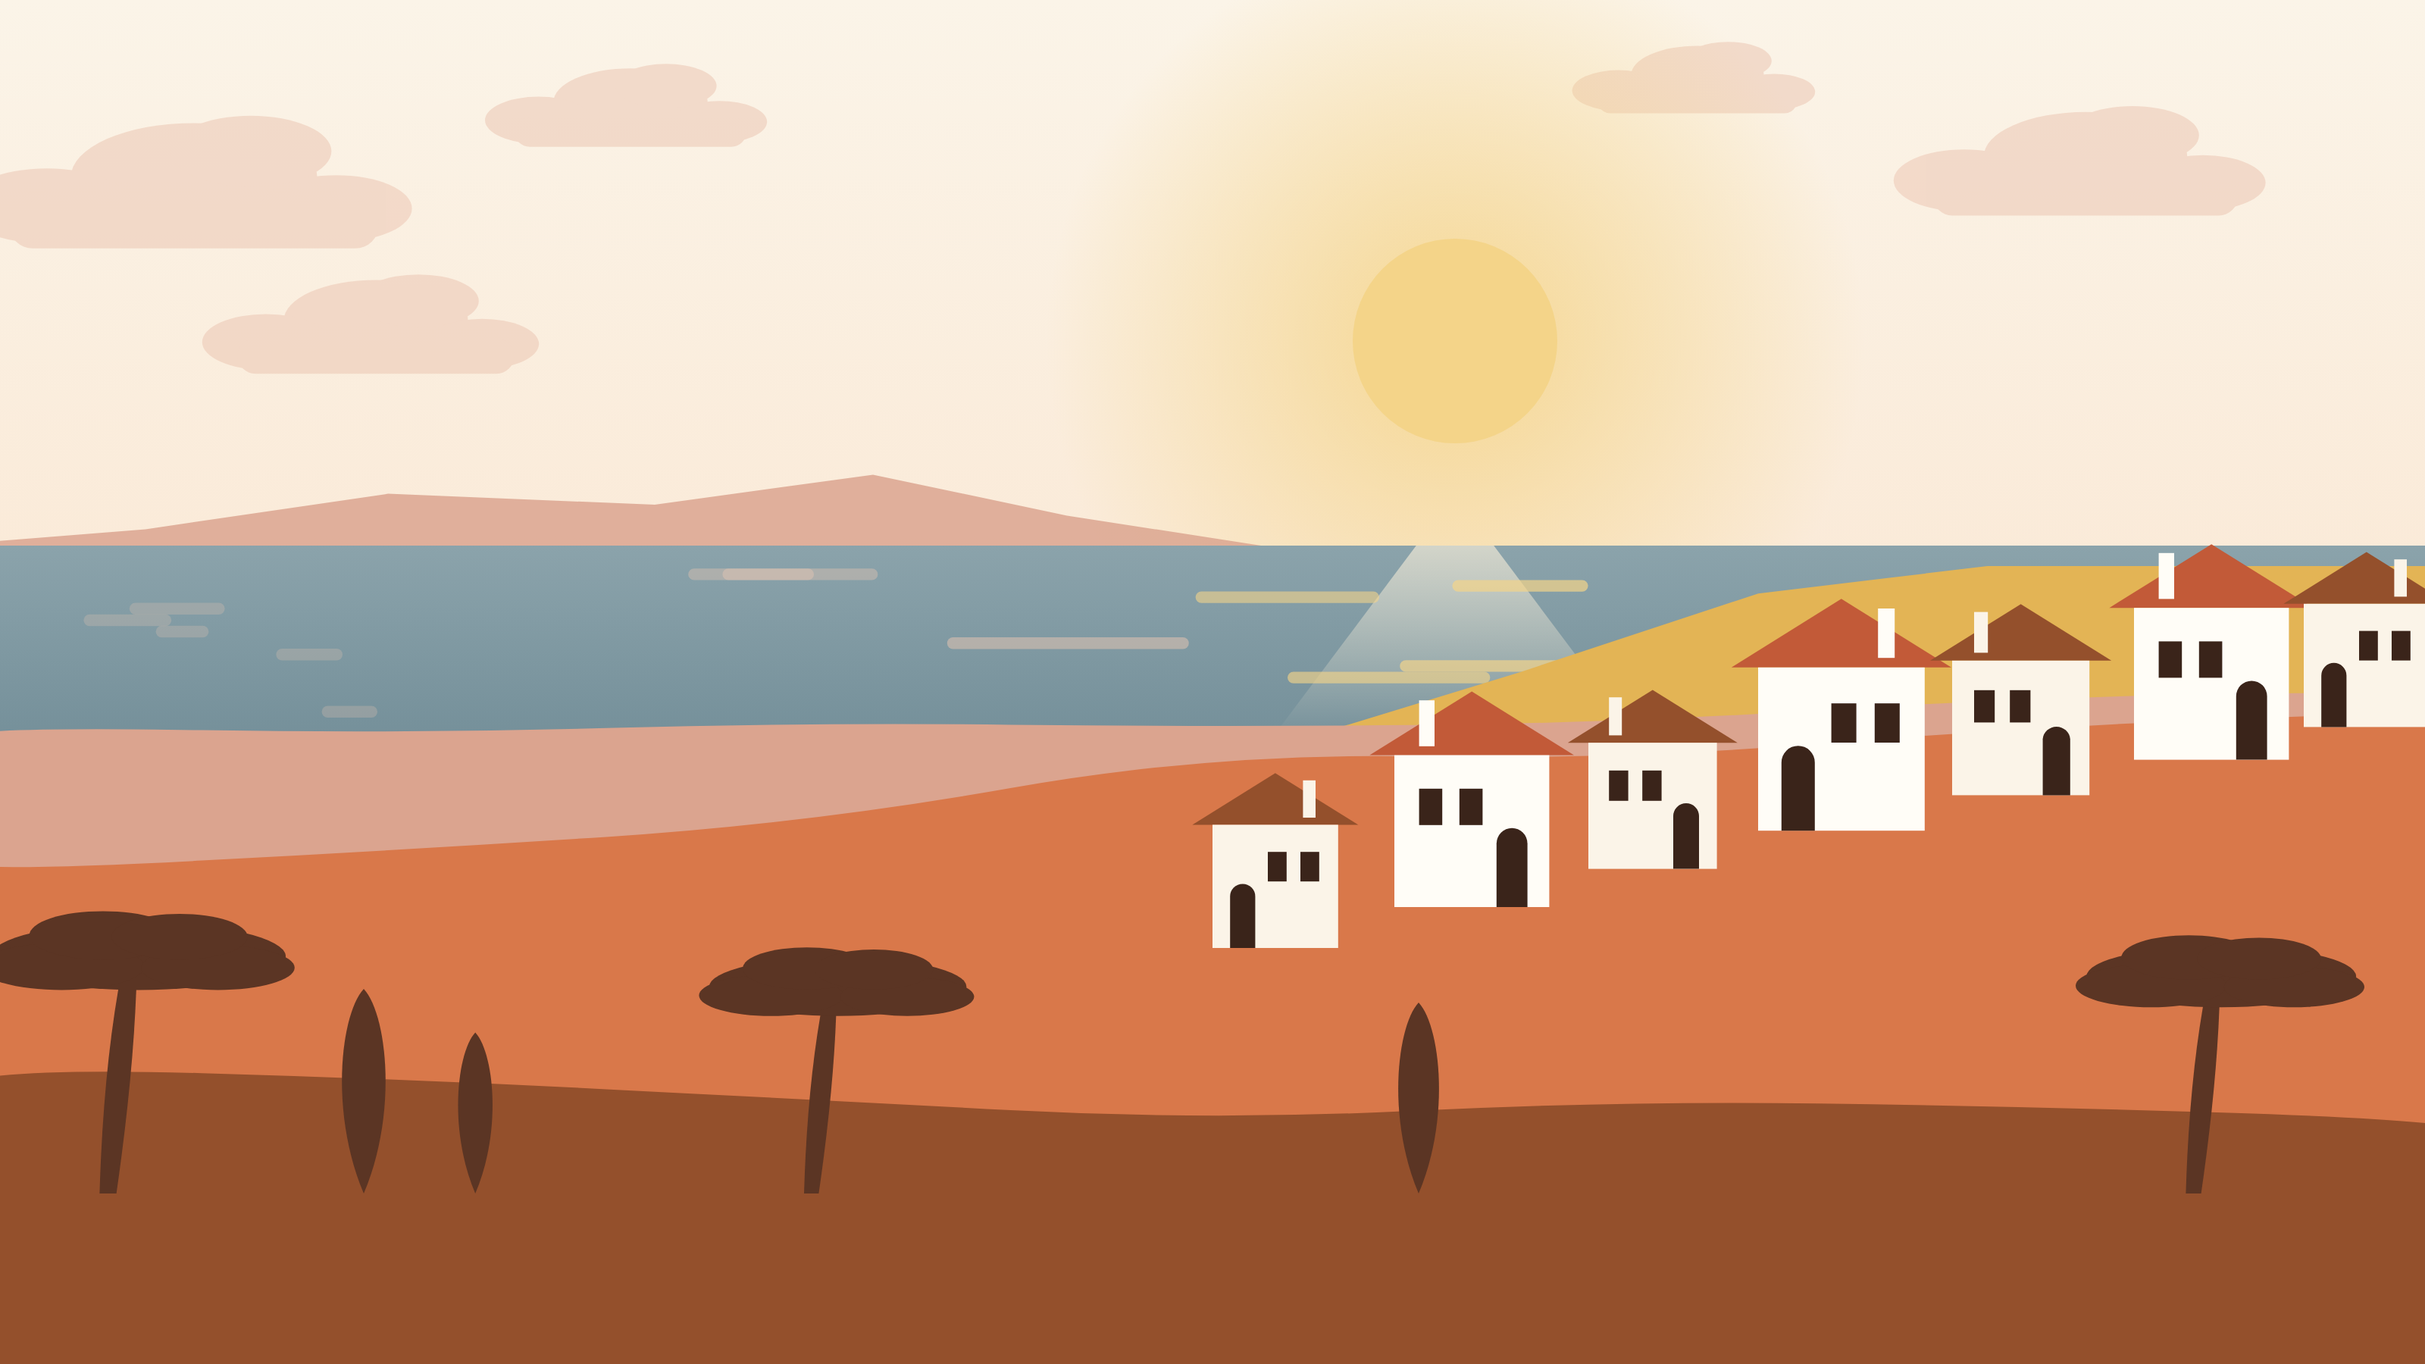
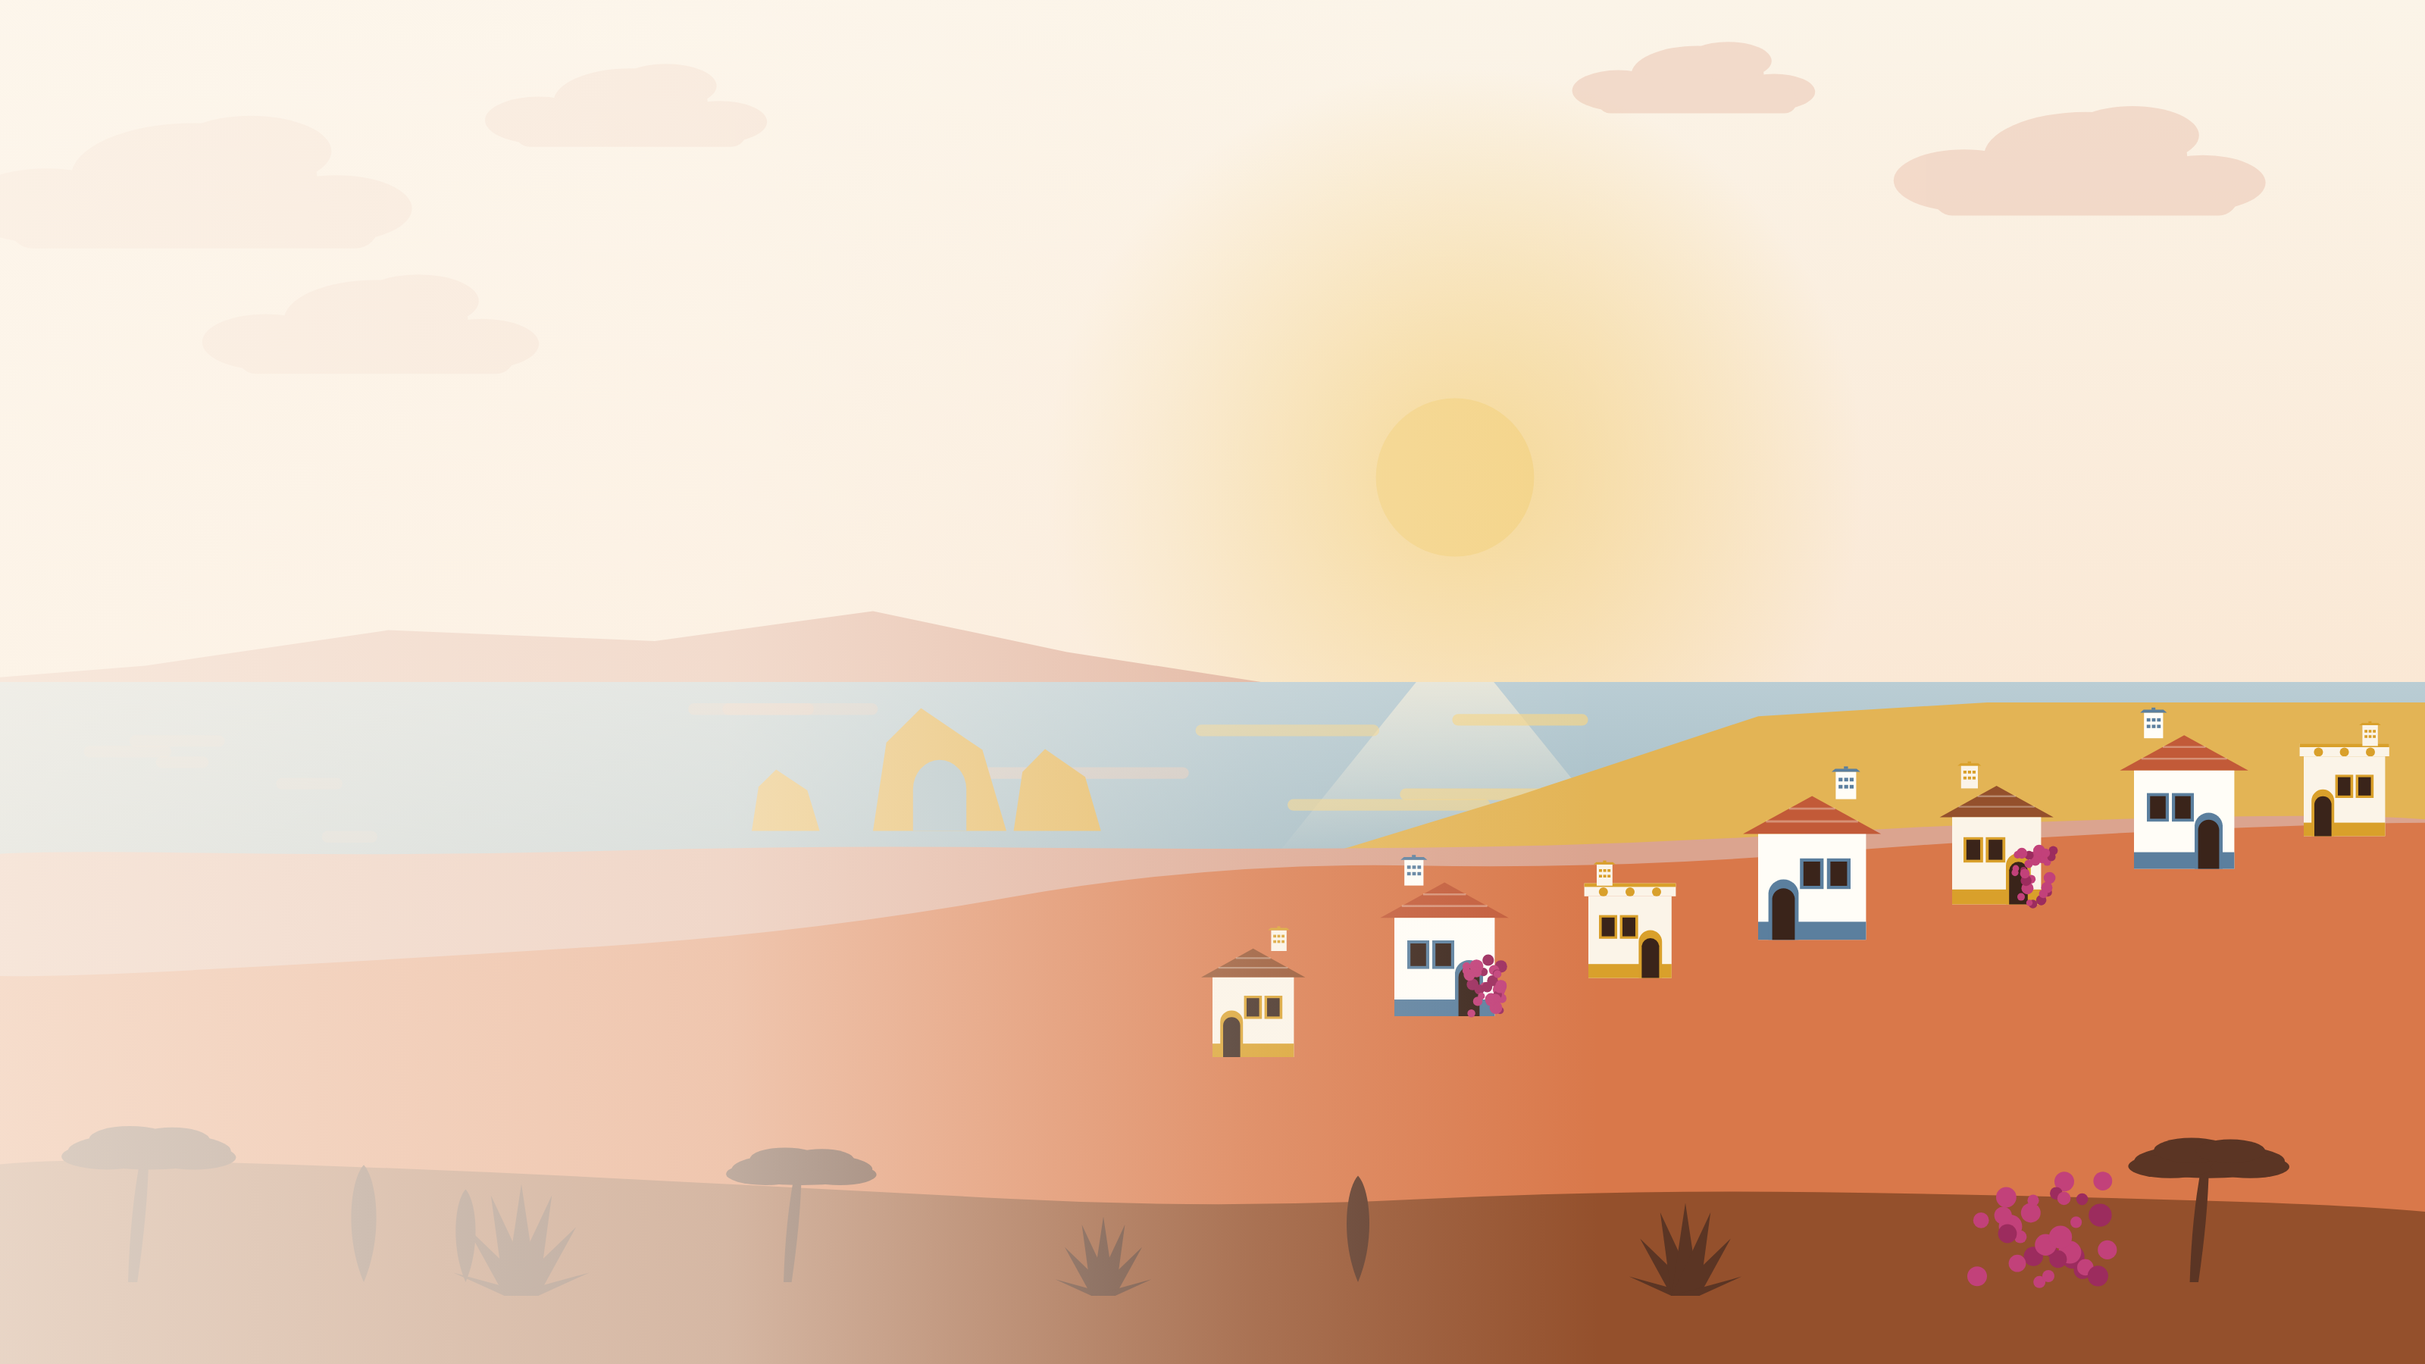
Make the hero illustration actually Algarve
The first cut was whitewashed blocks on orange hills — true of anywhere
on the Mediterranean. What was missing was every detail that only the
Algarve has. Added, all still procedural:

  Chaminés algarvias. The filigree chimney — tall, square, pierced with
  a lattice under a flared cap — is the most identifiable thing on an
  Algarve roofline, and its absence was most of the problem. Drawn on
  every house.

  Painted buildings. A coloured skirt band along the base and painted
  surrounds to every window and door, alternating between the blue of
  the tilework and ochre. The vernacular really is painted this way, and
  a painting company's own illustration ought to show it.

  Açoteias. Every fourth house takes a flat roof terrace with a parapet
  and a run of small arches instead of a pitched roof, which is what an
  actual hill village mixes.

  Sea stacks off the point, one of them pierced — the Ponta da Piedade
  silhouette.

  Bougainvillea spilling down two walls and one in the foreground, and
  agave on the near bank. The hot magenta is what stops a whitewashed
  village reading as monotone.

  Pantile courses suggested on the pitched roofs so they read as tile
  rather than as a flat plane.

Two corrections to the first attempt at the above: the chimneys were
drawn at half the wall height and came out as minarets, and the haze
over the quiet side was strong enough at 0.94 to grey out the sea
stacks, the trees and half the water. Both pulled back.
[…]

diff --git a/tools/brand/scene.py b/tools/brand/scene.py
@@ -34,6 +34,9 @@ WHITE      = '#fffdf7'
 # One cool note, desaturated and warm-leaning so it sits inside the warm
 # palette rather than competing with it. The Algarve without sea does not
 # read as the Algarve.
+AZULEJO    = '#5b7f9e'      # the blue of Portuguese tilework and painted trim
+BOUGAIN    = '#c2417a'      # bougainvillea
+BOUGAIN_DK = '#9c2c5e'
 SEA        = '#bacdd4'
 SEA_DEEP   = '#a3bbc4'
 
@@ -76,29 +79,118 @@ def cliff(w, h, x0, y, seed):
     return d + ' L %.1f %.1f L %.1f %.1f Z' % (w + 60, h + 60, x0, h + 60)
 
 
-def villa(x, base, w, h, roof, wall, flip=False):
-    """A whitewashed block with a pitched terracotta roof, arched door and
-    shuttered windows — the Algarve vernacular, drawn as simply as it bears."""
-    g = []
-    over = w * 0.16                              # roof overhang each side
-    peak = h * 0.42
-    g.append('<path d="M %.1f %.1f L %.1f %.1f L %.1f %.1f Z" fill="%s"/>'
-             % (x - over, base - h, x + w + over, base - h, x + w / 2, base - h - peak, roof))
-    g.append('<rect x="%.1f" y="%.1f" width="%.1f" height="%.1f" fill="%s"/>' % (x, base - h, w, h, wall))
-    cx = x + w * (0.16 if flip else 0.72)
+def chimney(x, base, w, h, colour, trim):
+    """A chaminé algarvia. These are the single most identifiable thing on an
+    Algarve roofline — tall, square, and pierced with a filigree lattice under
+    a flared cap — and leaving them off is most of why the first cut could
+    have been anywhere on the Mediterranean."""
+    g = ['<rect x="%.1f" y="%.1f" width="%.1f" height="%.1f" fill="%s"/>' % (x, base - h, w, h, colour)]
+    # pierced lattice: two rows of openings, suggested rather than drawn out
+    hx, hy = w * 0.19, h * 0.13
+    for r in range(2):
+        for c in range(3):
+            g.append('<rect x="%.1f" y="%.1f" width="%.1f" height="%.1f" fill="%s"/>'
+                     % (x + w * 0.14 + c * w * 0.27, base - h * (0.78 - r * 0.26), hx, hy, trim))
+    # flared cap and finial
+    g.append('<path d="M %.1f %.1f l %.1f 0 l %.1f %.1f l %.1f 0 Z" fill="%s"/>'
+             % (x - w * 0.20, base - h, w * 1.40, -w * 0.18, -h * 0.11, -w * 1.04, trim))
     g.append('<rect x="%.1f" y="%.1f" width="%.1f" height="%.1f" fill="%s"/>'
-             % (cx, base - h - peak * 0.86, w * 0.10, peak * 0.72, wall))
-    dw, dh = w * 0.20, h * 0.52
-    dx = x + (w * 0.66 if flip else w * 0.14)
+             % (x + w * 0.40, base - h - h * 0.19, w * 0.20, h * 0.09, trim))
+    return ''.join(g)
+
+
+def villa(x, base, w, h, roof, wall, flip=False, terrace=False, trim=AZULEJO):
+    """A white Algarve house: pantiled or flat-terraced, with a painted skirt
+    band and painted surrounds to the openings, an arched door, and a filigree
+    chimney. The paint is not decoration here — a painting company's own
+    illustration ought to show painted buildings."""
+    g = []
+    if terrace:
+        # açoteia: flat roof with a parapet, and a run of little arches
+        g.append('<rect x="%.1f" y="%.1f" width="%.1f" height="%.1f" fill="%s"/>'
+                 % (x - w * 0.05, base - h - h * 0.16, w * 1.10, h * 0.16, wall))
+        g.append('<rect x="%.1f" y="%.1f" width="%.1f" height="%.1f" fill="%s"/>'
+                 % (x - w * 0.05, base - h - h * 0.16, w * 1.10, h * 0.045, trim))
+        for i in range(3):
+            g.append('<circle cx="%.1f" cy="%.1f" r="%.1f" fill="%s"/>'
+                     % (x + w * (0.18 + 0.32 * i), base - h - h * 0.055, w * 0.055, trim))
+        roof_top = base - h - h * 0.16
+    else:
+        over, peak = w * 0.14, h * 0.36
+        g.append('<path d="M %.1f %.1f L %.1f %.1f L %.1f %.1f Z" fill="%s"/>'
+                 % (x - over, base - h, x + w + over, base - h, x + w / 2, base - h - peak, roof))
+        # pantile courses, just enough to read as tile rather than a flat plane
+        for i in (1, 2):
+            fy = i / 3.0
+            g.append('<path d="M %.1f %.1f L %.1f %.1f" stroke="%s" stroke-width="%.1f" opacity="0.35"/>'
+                     % (x - over + (over + w / 2) * fy, base - h - peak * fy,
+                        x + w + over - (over + w / 2) * fy, base - h - peak * fy, CREAM, h * 0.020))
+        roof_top = base - h - peak
+
+    g.append('<rect x="%.1f" y="%.1f" width="%.1f" height="%.1f" fill="%s"/>' % (x, base - h, w, h, wall))
+    # painted skirt band along the base — the vernacular ochre or blue plinth
+    g.append('<rect x="%.1f" y="%.1f" width="%.1f" height="%.1f" fill="%s"/>'
+             % (x, base - h * 0.17, w, h * 0.17, trim))
+
+    cw = w * 0.19
+    g.append(chimney(x + w * (0.10 if flip else 0.72), roof_top + h * 0.03, cw, h * 0.26, wall, trim))
+
+    # arched door with a painted surround
+    dw, dh = w * 0.21, h * 0.50
+    dx = x + (w * 0.64 if flip else w * 0.13)
+    g.append('<path d="M %.1f %.1f v %.1f a %.1f %.1f 0 0 1 %.1f 0 v %.1f Z" fill="%s"/>'
+             % (dx - w * 0.035, base, -(dh - dw / 2 + h * 0.05), dw / 2 + w * 0.035, dw / 2 + w * 0.035,
+                dw + w * 0.07, dh - dw / 2 + h * 0.05, trim))
     g.append('<path d="M %.1f %.1f v %.1f a %.1f %.1f 0 0 1 %.1f 0 v %.1f Z" fill="%s"/>'
              % (dx, base, -(dh - dw / 2), dw / 2, dw / 2, dw, dh - dw / 2, INK))
+
+    # shuttered windows, each in a painted surround
     for i in range(2):
-        ww, wh = w * 0.15, h * 0.24
-        wx = x + w * (0.16 if flip else 0.44) + i * w * 0.26
-        if wx + ww > x + w * 0.94:
+        ww, wh = w * 0.155, h * 0.23
+        wx = x + w * (0.16 if flip else 0.42) + i * w * 0.25
+        if wx + ww > x + w * 0.92:
             break
         g.append('<rect x="%.1f" y="%.1f" width="%.1f" height="%.1f" fill="%s"/>'
-                 % (wx, base - h * 0.78, ww, wh, INK))
+                 % (wx - w * 0.032, base - h * 0.74 - h * 0.03, ww + w * 0.064, wh + h * 0.06, trim))
+        g.append('<rect x="%.1f" y="%.1f" width="%.1f" height="%.1f" fill="%s"/>'
+                 % (wx, base - h * 0.74, ww, wh, INK))
+    return ''.join(g)
+
+
+def stack(x, base, w, h, colour, arch=False):
+    """A limestone sea stack, optionally pierced — the Ponta da Piedade
+    silhouette that says Algarve coast and nowhere else."""
+    g = ['<path d="M %.1f %.1f L %.1f %.1f L %.1f %.1f L %.1f %.1f L %.1f %.1f Z" fill="%s"/>'
+         % (x, base, x + w * 0.10, base - h * 0.72, x + w * 0.36, base - h,
+            x + w * 0.82, base - h * 0.66, x + w, base, colour)]
+    if arch:
+        g.append('<path d="M %.1f %.1f v %.1f a %.1f %.1f 0 0 1 %.1f 0 v %.1f Z" fill="%s"/>'
+                 % (x + w * 0.30, base, -h * 0.34, w * 0.20, h * 0.24, w * 0.40, h * 0.34, SEA_DEEP))
+    return ''.join(g)
+
+
+def agave(x, base, h, colour):
+    """Agave — the spiky rosette on every Algarve roadside and clifftop."""
+    g = []
+    for a in (-168, -142, -116, -90, -64, -38, -12):
+        r = math.radians(a)
+        ex, ey = x + math.cos(r) * h * 0.62, base + math.sin(r) * h
+        g.append('<path d="M %.1f %.1f L %.1f %.1f L %.1f %.1f Z" fill="%s"/>'
+                 % (x - h * 0.15, base, ex, ey, x + h * 0.15, base, colour))
+    return ''.join(g)
+
+
+def bougainvillea(x, base, w, h, colour, dark):
+    """A bougainvillea spilling down a wall: the one hot colour in an Algarve
+    street, and the reason a whitewashed village never reads as monotone."""
+    g = []
+    rng = random.Random(int(x) * 7 + 3)
+    for i in range(30):
+        cx = x + rng.uniform(0, w)
+        cy = base - rng.uniform(0, h)
+        r = h * rng.uniform(0.055, 0.115)
+        g.append('<circle cx="%.1f" cy="%.1f" r="%.1f" fill="%s"/>'
+                 % (cx, cy, r, dark if i % 3 == 0 else colour))
     return ''.join(g)
 
 
@@ -155,10 +247,10 @@ def scene(w, h, layout):
              '<stop offset="0" stop-color="#fff3dc" stop-opacity="0.62"/>'
              '<stop offset="1" stop-color="#fff3dc" stop-opacity="0"/></linearGradient>'
              '<linearGradient id="haze" x1="0" y1="0" x2="1" y2="0">'
-             '<stop offset="0" stop-color="#fdf6ec" stop-opacity="0.94"/>'
-             '<stop offset="0.30" stop-color="#fdf6ec" stop-opacity="0.86"/>'
-             '<stop offset="0.52" stop-color="#fdf6ec" stop-opacity="0.34"/>'
-             '<stop offset="0.68" stop-color="#fdf6ec" stop-opacity="0"/></linearGradient>'
+             '<stop offset="0" stop-color="#fdf6ec" stop-opacity="0.80"/>'
+             '<stop offset="0.30" stop-color="#fdf6ec" stop-opacity="0.62"/>'
+             '<stop offset="0.52" stop-color="#fdf6ec" stop-opacity="0.20"/>'
+             '<stop offset="0.66" stop-color="#fdf6ec" stop-opacity="0"/></linearGradient>'
              '<linearGradient id="hazeV" x1="0" y1="0" x2="0" y2="1">'
              '<stop offset="0" stop-color="#fdf6ec" stop-opacity="0.95"/>'
              '<stop offset="0.40" stop-color="#fdf6ec" stop-opacity="0.90"/>'
@@ -218,6 +310,17 @@ def scene(w, h, layout):
                     h * 0.0085, h * 0.0043, OCHRE_PALE if near > 0.55 else BLUSH_PALE,
                     0.25 + 0.45 * near))
 
+    # Sea stacks off the point, one of them pierced. This is the Ponta da
+    # Piedade silhouette, and it is the fastest way to say Algarve coast
+    # rather than generic Mediterranean bay.
+    st_base = SEA_END - (SEA_END - SKY_END) * 0.16
+    if wide:
+        st = [(0.360, 0.055, 0.090, True), (0.418, 0.036, 0.060, False), (0.310, 0.028, 0.045, False)]
+    else:
+        st = [(0.140, 0.070, 0.075, True), (0.245, 0.046, 0.050, False), (0.058, 0.036, 0.038, False)]
+    for fx, fw, fh, arch in st:
+        o.append(stack(w * fx, st_base, w * fw, h * fh, OCHRE_MID, arch))
+
     # golden cliff dropping into the water on the right, faceted not rounded
     cx0 = w * (quiet + 0.10)
     face = [(cx0, SEA_END)]
@@ -235,21 +338,30 @@ def scene(w, h, layout):
     o.append('<path d="%s" fill="%s"/>' % (ridge(w, h, SEA_END, h * 0.014, 3, 6, tilt=0.02), BLUSH))
     o.append('<path d="%s" fill="%s"/>' % (ridge(w, h, SLOPE, h * 0.022, 23, 6, tilt=0.10), CLAY_MID))
 
-    # the village CLIMBS the slope: each house sits a step higher to the right,
-    # which is what makes it read as a hill town rather than a terrace
+    # The village CLIMBS the slope — each house a step higher — and mixes
+    # pitched pantile roofs with flat açoteia terraces, which is what an
+    # actual Algarve hill village does. Trim alternates between the blue of
+    # the tilework and ochre, so the row reads as painted buildings rather
+    # than as one repeated block.
     if wide:
-        spots = [(0.50, 0.86, 0.00), (0.575, 1.06, 0.030), (0.655, 0.88, 0.058),
+        spots = [(0.50, 0.86, 0.000), (0.575, 1.06, 0.030), (0.655, 0.88, 0.058),
                  (0.725, 1.14, 0.086), (0.805, 0.94, 0.112), (0.880, 1.06, 0.138),
                  (0.950, 0.86, 0.162)]
     else:
-        spots = [(0.03, 0.88, 0.00), (0.135, 1.08, 0.026), (0.265, 0.90, 0.050),
+        spots = [(0.03, 0.88, 0.000), (0.135, 1.08, 0.026), (0.265, 0.90, 0.050),
                  (0.395, 1.16, 0.074), (0.535, 0.96, 0.098), (0.665, 1.08, 0.120),
                  (0.795, 0.88, 0.140), (0.900, 1.00, 0.158)]
     vh = h * (0.068 if wide else 0.062)
-    for i, (fx, s, lift) in enumerate(spots):
-        o.append(villa(w * fx, SLOPE + h * 0.075 - h * lift, vh * 1.02 * s, vh * s,
+    for i, (fx, s_, lift) in enumerate(spots):
+        vx, vy2 = w * fx, SLOPE + h * 0.075 - h * lift
+        o.append(villa(vx, vy2, vh * 1.02 * s_, vh * s_,
                        roof=TERRACOTTA if i % 2 else CLAY_DEEP,
-                       wall=WHITE if i % 2 else CREAM, flip=bool(i % 3)))
+                       wall=WHITE if i % 2 else CREAM,
+                       flip=bool(i % 3), terrace=(i % 4 == 2),
+                       trim=AZULEJO if i % 2 else OCHRE))
+        if i in (1, 4):
+            o.append(bougainvillea(vx + vh * 0.72 * s_, vy2, vh * 0.44 * s_, vh * 0.62 * s_,
+                                   BOUGAIN, BOUGAIN_DK))
 
     # near bank, darkest plane, closing the frame
     o.append('<path d="%s" fill="%s"/>' % (ridge(w, h, FG, h * 0.018, 31, 6, tilt=-0.03), CLAY_DEEP))
@@ -262,6 +374,12 @@ def scene(w, h, layout):
                  (0.700, 0.070, 'c'), (0.905, 0.100, 'p')]
     for fx, fh, kind in trees:
         o.append((cypress if kind == 'c' else pine)(w * fx, FG + h * 0.075, h * fh, BARK))
+    # agave on the near bank, and one bougainvillea to carry a hot note into
+    # the foreground so the bottom of the frame is not all earth
+    for fx, fh in ((0.215, 0.082), (0.695, 0.068), (0.455, 0.058)) if wide else ((0.31, 0.072), (0.85, 0.060)):
+        o.append(agave(w * fx, FG + h * 0.085, h * fh, BARK))
+    bx = w * (0.815 if wide else 0.60)
+    o.append(bougainvillea(bx, FG + h * 0.075, w * 0.055, h * 0.075, BOUGAIN, BOUGAIN_DK))
     # Morning haze over the quiet side. This is the job the CSS veil used to
     # do, moved into the picture: an illustrator would draw the light this
     # way round anyway, and here it can be judged against the artwork instead
